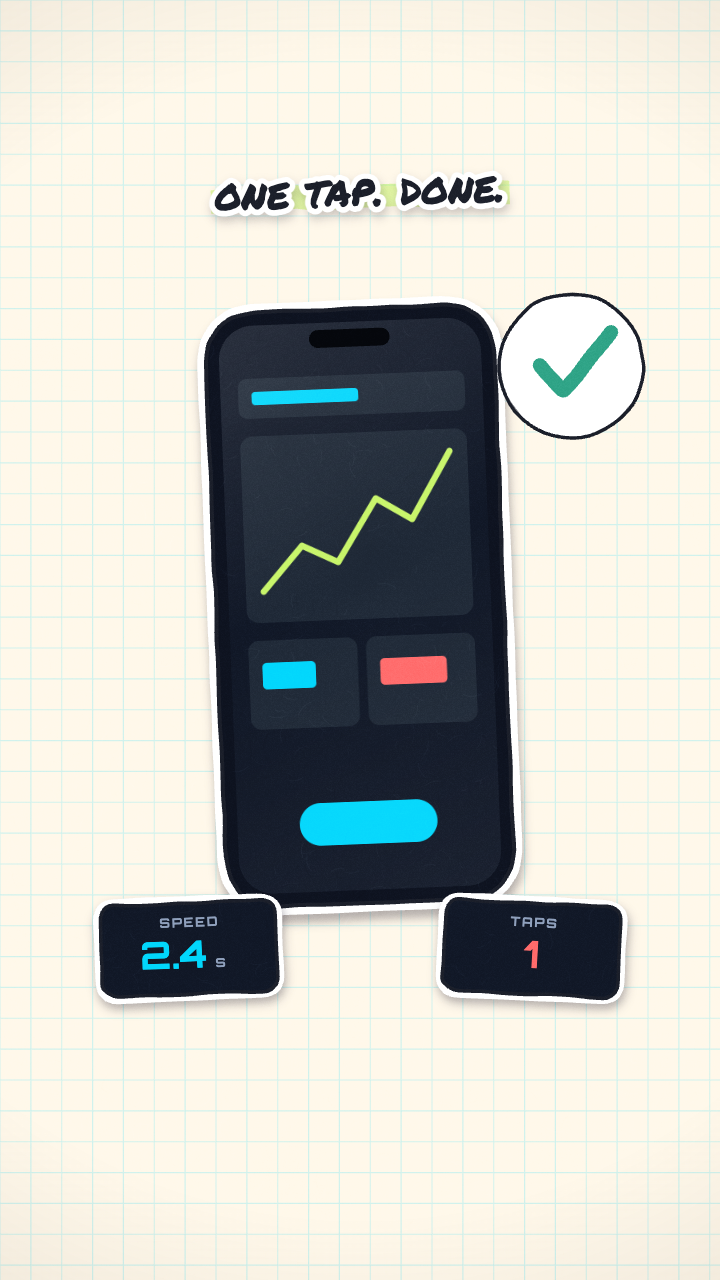
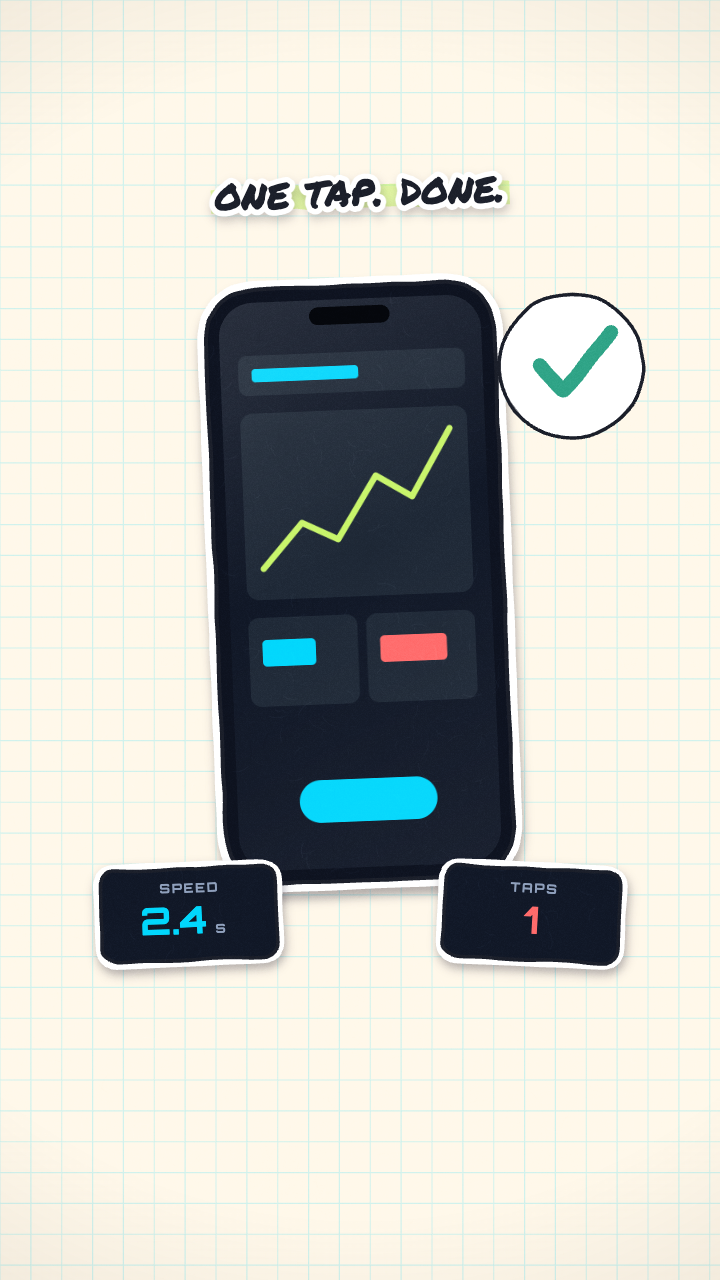
Phase 2 integration fixes: QA text boxes + unclamped bboxes, linear loudnorm, beat phase on kick/bass, final hit on onset, vo timing --words, repeatable --ref, fixture vertical layout; memories

diff --git a/engine/js/style/collage/draw.js b/engine/js/style/collage/draw.js
@@ -69,6 +69,7 @@ export const S = {
   border: 11, // sticker border half-width
   t: 0,
   bb: null, // device-space bbox accumulated during the sticker back pass
+  bbText: false, // set by text() during a back pass: the sticker holds text (QA safe zone)
   // QA hooks (null when idle — zero cost to normal rendering):
   scene: null,   // set by main.js to the current scene id during __frameBoxes
   collect: null, // array filled with {x0,y0,x1,y1,scene} device-px bboxes by sticker(); null = off
@@ -331,8 +332,13 @@ export function sticker(ctx, fn, o = {}) {
   S.pass = 'back';
   S.border = border;
   S.bb = [Infinity, Infinity, -Infinity, -Infinity];
+  const prevText = S.bbText;
+  S.bbText = false;
   fn(lctx);
   let bb = S.bb;
+  const hasText = S.bbText;
+  S.bbText = prevText || hasText;
+  const raw = bb[0] === Infinity ? null : bb.slice();
   S.pass = prevPass;
   S.border = prevB;
   S.bb = prevBB;
@@ -340,8 +346,9 @@ export function sticker(ctx, fn, o = {}) {
   bb = [Math.max(0, Math.floor(bb[0]) - 2), Math.max(0, Math.floor(bb[1]) - 2), Math.min(layer.width, Math.ceil(bb[2]) + 2), Math.min(layer.height, Math.ceil(bb[3]) + 2)];
   lastBB = bb;
   // collect bbox for QA layout check (zero cost when S.collect is null)
-  if (S.collect !== null) {
-    S.collect.push({ x0: bb[0], y0: bb[1], x1: bb[2], y1: bb[3], scene: S.scene });
+  // (unclamped, so boxes running off the frame show up as clipping)
+  if (S.collect !== null && raw) {
+    S.collect.push({ x0: raw[0], y0: raw[1], x1: raw[2], y1: raw[3], scene: S.scene, text: hasText });
   }
   if (prevBB) {
     // nested sticker: extend the parent's bbox too
@@ -482,7 +489,10 @@ export function text(ctx, str, x, y, o = {}) {
     const sc = vis < 1 ? 0.4 + 0.6 * vis : 1;
     ctx.scale(sc, sc);
     if (back) {
-      bbAdd(ctx, 0, 0, Math.max(w, size) + S.border * 2);
+      S.bbText = true;
+      // glyph box (ascent/descent ≈ 0.75 em around the middle baseline) + the white border stroke
+      const pad = S.border + (o.strokeW ?? 0) + 4, hx = w / 2, hy = size * 0.75;
+      for (const [px, py] of [[-hx, -hy], [hx, -hy], [hx, hy], [-hx, hy]]) bbAdd(ctx, px, py, pad);
       ctx.lineJoin = 'round';
       ctx.strokeStyle = '#fff';
       ctx.lineWidth = S.border * 2 + (o.strokeW ?? 0) * 2;

diff --git a/engine/js/main.js b/engine/js/main.js
@@ -204,7 +204,7 @@ window.__framePNG = (t) => {
 };
 /**
  * Render frame t and return all sticker bboxes in design units.
- * [{x0, y0, x1, y1, scene}] — design units = (device px + crop) / scale.
+ * [{x0, y0, x1, y1, scene, text}] (text = the sticker contains text) — design units = (device px + crop) / scale.
  * Used by the QA layout checker.
  */
 window.__frameBoxes = (t) => {
@@ -216,6 +216,7 @@ window.__frameBoxes = (t) => {
     x1: (b.x1 + CROP_X) / SCALE,
     y1: (b.y1 + CROP_Y) / SCALE,
     scene: b.scene,
+    text: b.text,
   }));
   S.collect = null;
   return boxes;

diff --git a/fixtures/sample-15s/scenes/02-feature.js b/fixtures/sample-15s/scenes/02-feature.js
@@ -9,7 +9,7 @@ export default {
   start: (T) => T.s2,
   layout: {
     land: { phone: [600, 560, 860], tags: [[1180, 330], [1560, 560]], check: [1330, 850, 1.6], cap: [1360, 120, 70] },
-    vert: { phone: [630, 1060, 1040], tags: [[330, 1660], [930, 1660]], check: [1000, 640, 1.4], cap: [630, 330, 76] },
+    vert: { phone: [630, 1020, 1040], tags: [[330, 1600], [930, 1600]], check: [1000, 640, 1.4], cap: [630, 330, 76] },
     sq: { phone: [380, 660, 880], tags: [[930, 360], [930, 660]], check: [930, 980, 1.3], cap: [880, 110, 62] },
   },
   sfx: (T) => [

diff --git a/.claude/memories.md b/.claude/memories.md
@@ -1,7 +1,9 @@
 # Project Memories
 
 ## Status
-- Phase 1 (engine extraction) done 2026-10-11 on branch `phase1-engine`. Phases 2–5 (full CLI, plugin skills, scene agents, polish) not started.
+- Phase 1 (engine extraction) done 2026-10-11 on branch `phase1-engine`.
+- Phase 2 (CLI) done 2026-10-11 on branch `phase2-cli` (based on phase1-engine; neither merged to main). Acceptance verified: fresh `setup → vo import → vo timing --words → vo gaps → music import → mix → check → export --all → qa` with no API calls passes in 3 formats. Paid paths (TTS/STT/Lyria/images) are only tested with fake clients — no live smoke test yet (no key used).
+- Phases 3–5 (plugin skills, scene agents, polish) not started.
 
 ## Engine layout and conventions (engine/)
 - `engine/js/` = browser engine (ESM, bundled by esbuild into `<video>/promo.bundle.js`, IIFE so file:// works). `engine/tools/` = Node CLI (`cli.mjs build | stills | export`), deps in `engine/tools/node_modules` (run `npm install` there).
@@ -18,13 +20,13 @@
 - `make-fixture.mjs` regenerates all placeholder assets deterministically: per-word procedural "babble" VO (exact word times, no espeak/STT), 120 BPM procedural loop → `track.mp3` via ffmpeg-static with the final hit placed on "now", sharp-rendered SVG art, QR via `qrcode`. ~15 s, 3 scenes, layouts for all 3 formats.
 - Verified 2026-10-11: builds; stills in 3 formats; exports 3 formats × 720p and 1080p (−14 LUFS); 4K vertical and 1080x1350 stills.
 - `ref/stills/{landscape,vertical,square}/*.png` — 9 PNG reference stills (lossless, 720p, `--png=true`) for pixel-diff baseline. GPU noise ≤8/255 between runs (tol=8).
-- KNOWN: vertical/square layouts place decorative elements (cloud y≈230, sun y=250 center) outside the safe zone y=250–1750. QA run for landscape only until scene files are updated.
+- Fixture vertical 02-feature layout was moved inside the safe zone (tags y 1600); QA + CI now check all 3 formats. Fixture cues `duckDb -10` so `music check` passes.
 
 ## QA tools (tasks 2i+2j, 2026-10-11)
 - `engine/tools/qa.mjs` `run(ctx)`: checks all promo.json formats×sizes (or --format/--size); probes MP4 (ffmpeg stderr), loudness (−14 ±1 LUFS, −1+0.2 dBTP), audio/video delta ≤0.1 s, QR decode (jsQR+sharp .ensureAlpha()), layout check; writes `out/qa_report.json` + `.md`; throws QaFail (exit 2) on issues.
 - `engine/tools/lib/qa-probe.mjs`: ffmpeg-only MP4 probe — `probeFile()` (container duration, size, fps), `streamDuration()` (per-stream via -map + -f null decode), `parseHMSS()`.
 - `engine/tools/lib/layout-check.mjs`: pure functions — `findOverlaps` (minArea=400 du², skips containment pairs), `findClipping` (tol=2 du), `findSafeZoneViolations` (vertical only, y 250–1750), `checkLayout` (overlaps=warning, clipping/safe-zone=error).
-- `engine/js/style/collage/draw.js`: `S.collect` + `S.scene` hooks (null=off, zero cost). `sticker()` pushes `{x0,y0,x1,y1,scene}` device-px bboxes when collect is active.
+- `engine/js/style/collage/draw.js`: `S.collect` + `S.scene` hooks (null=off, zero cost). `sticker()` pushes UNCLAMPED `{x0,y0,x1,y1,scene,text}` device-px bboxes when collect is active (clamping would hide clipping). `text` = the sticker contains text (`S.bbText` set by `text()` in the back pass); the vertical safe zone (y 250–1750) is enforced only on text boxes — decorative stickers may bleed. Text bbox = glyph rect (±w/2, ±0.75 em) + border; the old per-glyph circle was ~100 units too loose.
 - `engine/js/main.js`: `S.scene = sc.id` per scene; `window.__frameBoxes(t)` → design-unit bboxes; `window.__framePNG(t)` → lossless PNG data URL.
 - `engine/tools/lib/page.mjs`: `framePng(page,t)`, `frameBoxes(page,t)` helpers.
 - `engine/tools/stills.mjs`: backward-compatible `png: true` / `--png=true` option for PNG stills.
@@ -33,3 +35,13 @@
 - `tests/integration/fixture-pipeline.test.mjs` (12 tests): ~63 s on Apple Silicon; node:test runner.
 - `.github/workflows/ci.yml`: unit job (glob) + fixture job (browser-actions/setup-chrome) + integration job.
 - jsqr ^1.4.0 added to engine/tools/package.json. No ffprobe needed (ffmpeg-static suffices).
+
+## CLI (phase 2, engine/tools)
+- `cli.mjs` = command registry; every command returns a result object, `--json` prints it on stdout (logs → stderr) for skills. Exit codes: 0 ok, 1 error, 2 QA failed (`lib/errors.mjs` QaFail), 3 over budget (`BudgetError`). Groups `vo|music|art <sub>` live in `vo.mjs`/`music.mjs`/`art.mjs` (`USAGE` + `commands`). Arg parser `lib/args.mjs`: BOOL set (incl. `png`), MULTI set (`--ref` repeatable).
+- Project commands (`project.mjs`): setup (copies js/, tools/ minus node_modules, index.html, VERSION, assets/fonts, providers.json; writes promo/theme/manifest/.gitignore/.env.example; `npm ci` in tools), check, status, next, cost, stage, gate, mode, budget, output, upgrade (must be run with the PLUGIN's cli + `--project`; wipes js/ and tools/ except node_modules, marks scenes stale).
+- `lib/state.mjs`: stage machine; DEPENDENTS adds `voice → music` (music placement depends on word times) on top of the tech design graph. Stale only propagates to stages that were done. Running > 10 min = failed.
+- Paid calls ONLY via `lib/paid.mjs paid()` (estimate → budget refusal → model fallbacks on policy/ZDR blocks → records actual cost from `usage.cost` or `/generation`, else estimate flagged `estimated`). `providers.json` holds per-model prices (checked 2026-10-11 against openrouter.ai models API; `openai/tts-1-hd` doesn't exist there → fallback is `microsoft/mai-voice-2`). TTS/STT models only show in `/models?output_modalities=all|speech`.
+- Export loudnorm: second pass uses `LRA = max(11, measured+1)` — with a lower LRA target ffmpeg silently switches from linear to dynamic mode and (ffmpeg 6) fails on the channel layout.
+- vo: `vo timing --words <file>` takes your own word times (no STT/API); `timing` always seeds the no-gaps pair, `gaps` always rebuilds from it; `--min` = pauses already this long are left alone, shorter widen to `--max`. Word matching uses the engine's Unicode `wordKey`. Project spoken-form overrides: `theme.json "spoken": { "<regex>": "<canonical>" }`.
+- music: beat-grid phase comb weighs the low-band onset envelope ×2 (mean-normalised) — plain spectral flux locked the fixture grid onto off-beat hi-hats (0.25 s off). The final hit is snapped to the strongest onset within ±0.3 s (button attack), not the grid. Fixture placement now within ~36 ms (test tolerance 0.06 s). `music mix`/`check` use `exportVideo(..., {audioOnly, stems})` which returns `stems` paths.
+- art: names/`--out`/`--name` restricted to `[A-Za-z0-9_-]`, `--ref` image files only (they're uploaded), manifest paths must stay inside the project.

diff --git a/README.md b/README.md
@@ -1,7 +1,7 @@
 # promo-clip
 
 Claude Code plugin for short animated promo videos: guided discovery, script, voice-over, music, art,
-scenes, format variants and export, in a hand-drawn paper-collage style. **Work in progress** (engine only).
+scenes, format variants and export, in a hand-drawn paper-collage style. **Work in progress**: engine + CLI done, plugin skills next.
 
 ## Engine quick start (development)
 
@@ -13,7 +13,14 @@ node ../../engine/tools/cli.mjs stills .work/stills --scenes --format vertical -
 node ../../engine/tools/cli.mjs export --format square --size 1080p   # -> out/sample_15s_square_1080p[_web].mp4
 ```
 
-Needs Node ≥ 20 and Chrome/Chromium (or `CHROME_PATH`). Unit tests: `node --test tests/unit/*.test.mjs`.
+Needs Node ≥ 20 and Chrome/Chromium (or `CHROME_PATH`). AI voice/music/art need `OPENROUTER_API_KEY` (env or `.env` in the video folder).
+
+```sh
+node engine/tools/cli.mjs help                      # all commands
+node engine/tools/cli.mjs setup ~/clips/my-clip     # new video folder with its own engine copy
+node --test tests/unit/*.test.mjs                   # unit tests (fast)
+node --test tests/integration/*.test.mjs            # fixture pipeline in Chrome (~1 min)
+```
 
 ## Licence
 
